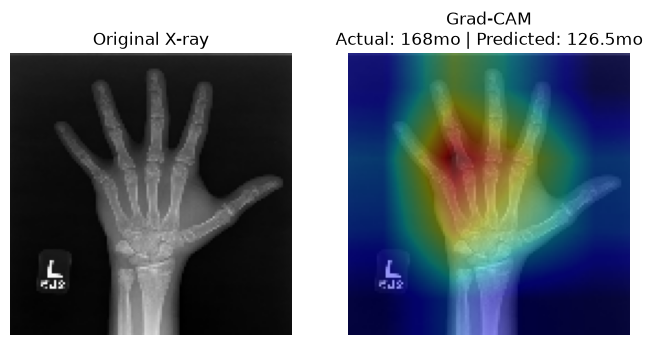
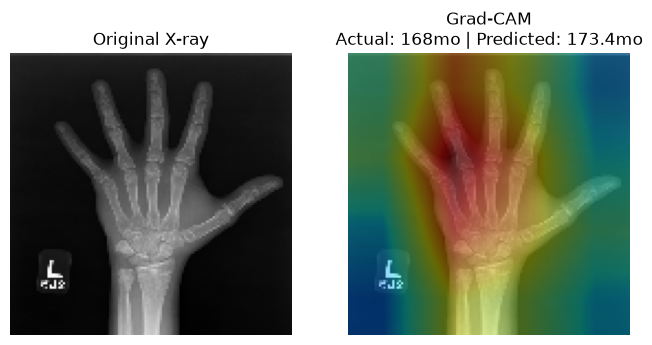
Update training script and README with improved transfer learning details and model performance metrics

diff --git a/train_transfer.py b/train_transfer.py
@@ -33,7 +33,7 @@ IMG_SIZE = 128
 SUBSET_SIZE = 1000
 BATCH_SIZE = 16
 PHASE1_EPOCHS = 10
-PHASE2_EPOCHS = 5
+PHASE2_EPOCHS = 15
 
 
 #################################################################################
@@ -235,10 +235,19 @@ def train_phase1(model, train_ds, val_ds, epochs):
 
 def train_phase2(model, base_model, train_ds, val_ds, epochs):
     print(Border)
-    print("Phase 2 : Fine-tuning (base model unfrozen)")
+    print("Phase 2 : Fine-tuning (base model unfrozen, BatchNorm kept frozen)")
     print(Border)
 
     base_model.trainable = True
+
+    # IMPORTANT: Keep BatchNormalization layers frozen even though the rest
+    # of the base model is unfrozen. BatchNorm layers are very sensitive to
+    # small batch sizes / small datasets - unfreezing them causes their
+    # internal statistics to destabilize, which can wreck the model
+    # (this is a well-known issue when fine-tuning EfficientNet/ResNet etc.)
+    for layer in base_model.layers:
+        if isinstance(layer, tf.keras.layers.BatchNormalization):
+            layer.trainable = False
 
     model.compile(
         optimizer=tf.keras.optimizers.Adam(learning_rate=1e-5),
@@ -246,7 +255,33 @@ def train_phase2(model, base_model, train_ds, val_ds, epochs):
         metrics=['mae']
     )
 
-    history = model.fit(train_ds, validation_data=val_ds, epochs=epochs)
+    # Save only the BEST model (lowest validation MAE seen during training),
+    # not whatever the last epoch happens to produce - fine-tuning can
+    # sometimes get worse before it gets better, or diverge entirely
+    checkpoint = tf.keras.callbacks.ModelCheckpoint(
+        "transfer_model_best.keras",
+        monitor='val_mae',
+        save_best_only=True,
+        mode='min',
+        verbose=1
+    )
+
+    # Stop early if validation MAE doesn't improve for 3 epochs in a row,
+    # and automatically restore the best weights seen - protects against
+    # exactly the kind of divergence we just saw
+    early_stop = tf.keras.callbacks.EarlyStopping(
+        monitor='val_mae',
+        patience=3,
+        restore_best_weights=True,
+        verbose=1
+    )
+
+    history = model.fit(
+        train_ds,
+        validation_data=val_ds,
+        epochs=epochs,
+        callbacks=[checkpoint, early_stop]
+    )
 
     return history
 

diff --git a/README.md b/README.md
@@ -59,8 +59,15 @@ with how radiologists assess bone maturity.*
 
 | Model              | Validation MAE (months) |
 |--------------------|--------------------------|
-| Baseline CNN        | ~35-45                   |
-| Transfer Learning (EfficientNetB0) | *(update after running)* |
+| Baseline CNN (from scratch)        | ~35-45                   |
+| Transfer Learning (EfficientNetB0, fine-tuned) | **19.3** |
+
+Transfer learning improved MAE by roughly 55-58% over the from-scratch
+baseline. A key implementation detail: BatchNormalization layers inside the
+pretrained backbone were kept frozen during fine-tuning even after
+unfreezing the rest of the base model - unfreezing them destabilized
+training and caused validation MAE to worsen every epoch (77+ months) until
+this fix was applied.
 
 *Note: trained on a subset (1000 images) for fast iteration on CPU. Full
 dataset training would improve results further.*
